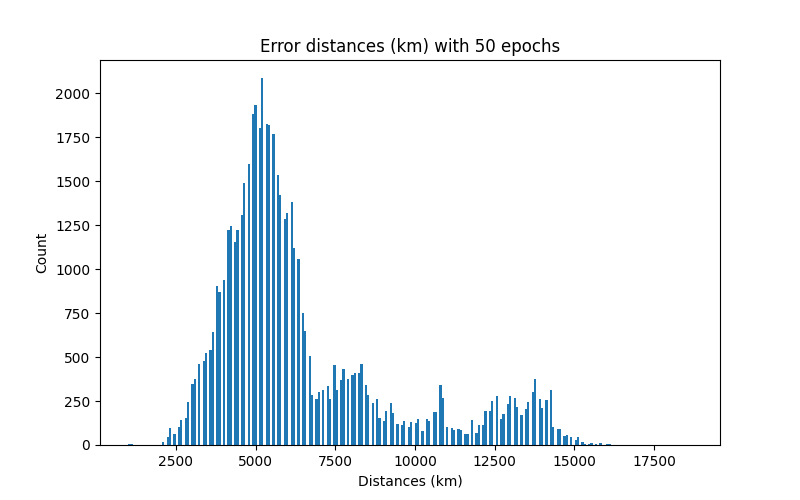
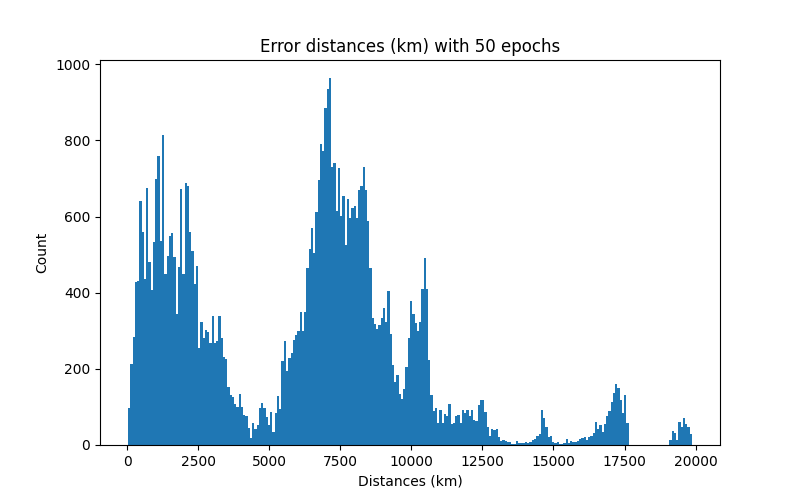
rerun vit guessr

diff --git a/vit_geoguessr/guessr_model.py b/vit_geoguessr/guessr_model.py
@@ -131,7 +131,7 @@ class ViTGeoGuessr(nn.Module):
             self.num_features = representation_size
             self.pre_logits = nn.Sequential(OrderedDict([
                 ('fc', nn.Linear(embed_dim, representation_size)),
-                # ('act', nn.Tanh())
+                ('act', nn.Tanh())
             ]))
         else:
             self.has_logits = False
